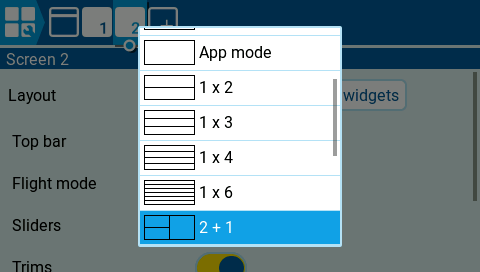
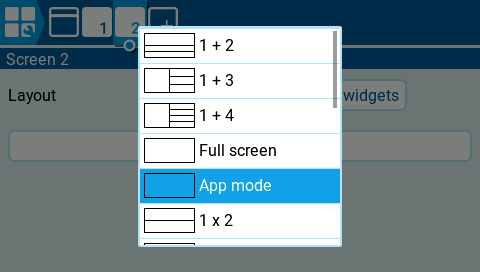
Highlight App mode in the screen-layout capture

diff --git a/tools/capture-editor.py b/tools/capture-editor.py
@@ -23,6 +23,10 @@ SETUP_SCENES["new-screen"] = SETUP_SCENES["add-screen"] + [
     (950, 240, 158, 1), (970, 240, 158, 0)]
 SETUP_SCENES["screen-layout"] = SETUP_SCENES["new-screen"] + [
     (1100, 225, 95, 1), (1120, 225, 95, 0)]
+# Reopen after choosing App mode so the chooser highlights the recommended row.
+SETUP_SCENES["app-mode-choice"] = SETUP_SCENES["screen-layout"] + [
+    (1250, 230, 52, 1), (1270, 230, 52, 0),
+    (1400, 225, 95, 1), (1420, 225, 95, 0)]
 SETUP_SCENES["app-screen"] = SETUP_SCENES["screen-layout"] + [
     (1250, 230, 52, 1), (1270, 230, 52, 0)]
 SETUP_SCENES["setup-widgets"] = SETUP_SCENES["app-screen"] + [
